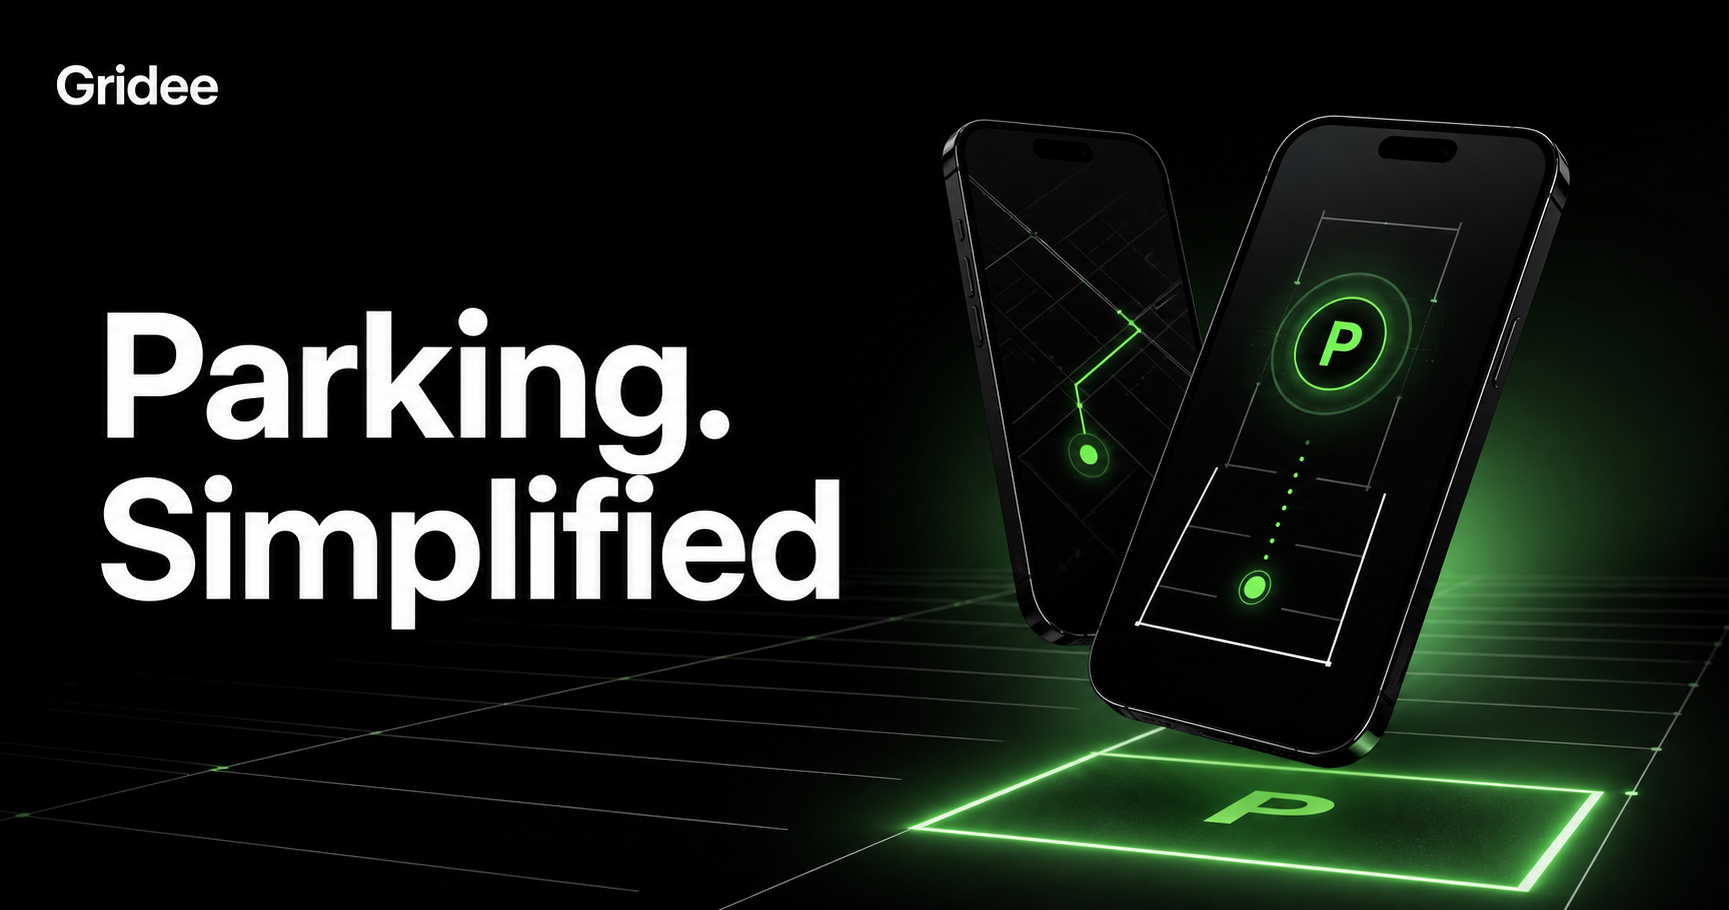
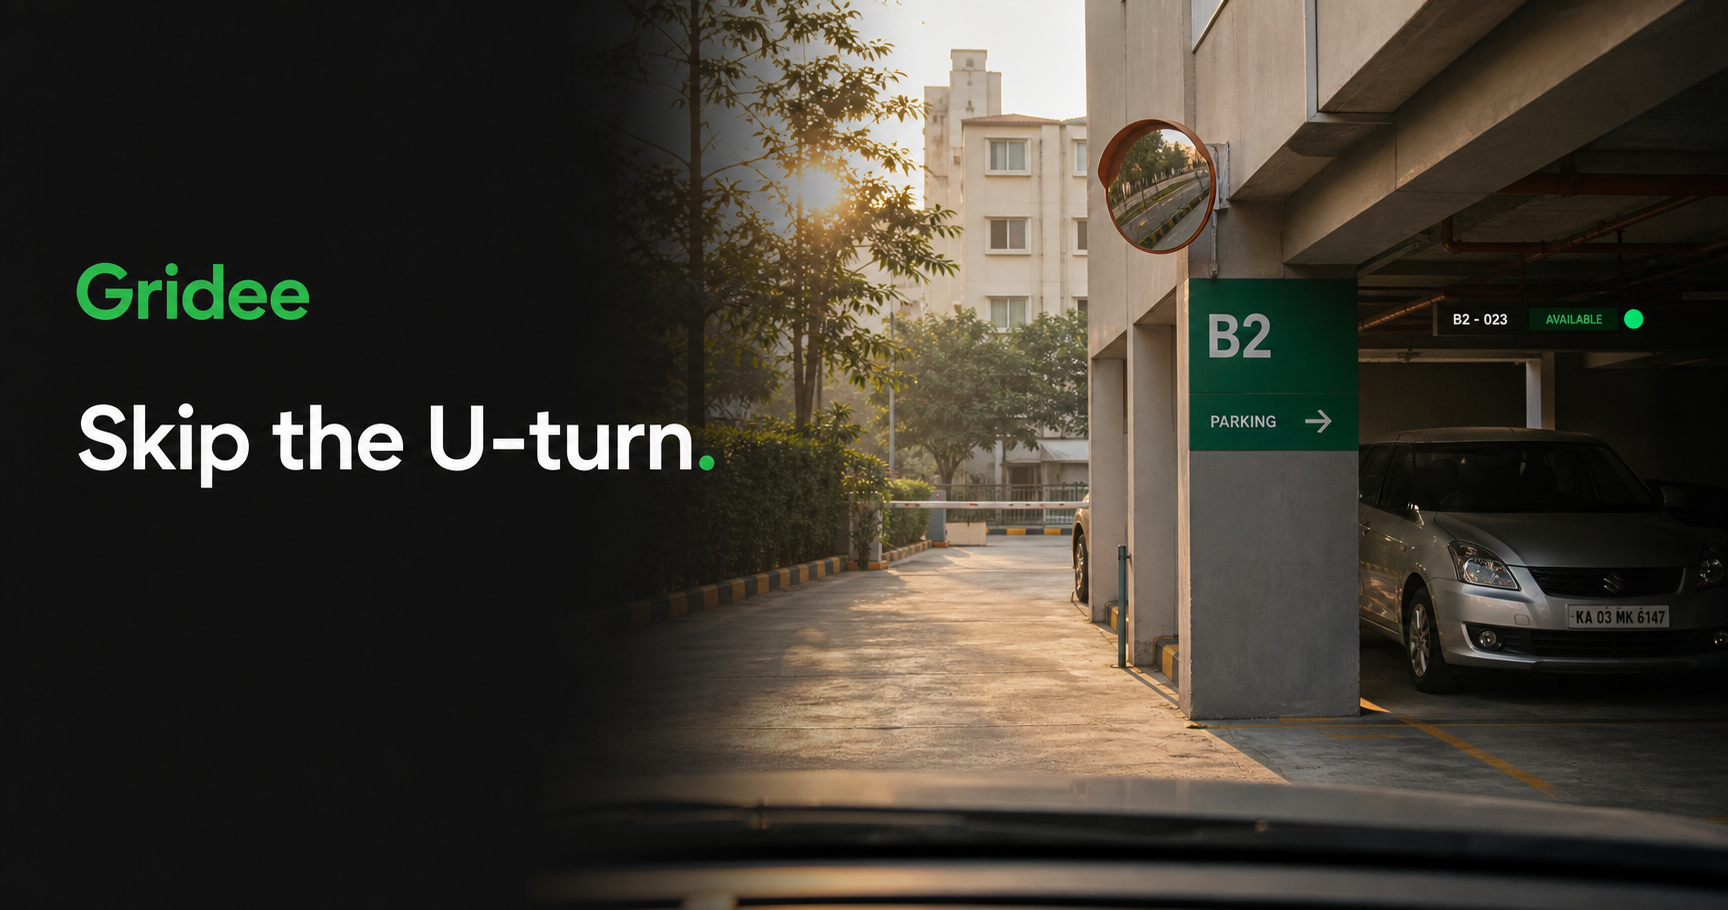
Give Gridee landing page a more human voice

diff --git a/app/globals.css b/app/globals.css
@@ -381,37 +381,12 @@ main {
   z-index: 2;
 }
 
-.announcement {
-  width: max-content;
-  display: flex;
-  align-items: center;
-  gap: 9px;
-  margin-bottom: 30px;
-  padding: 8px 11px;
-  border: 1px solid rgba(255, 255, 255, 0.12);
-  border-radius: 999px;
-  background: rgba(255, 255, 255, 0.035);
-  color: rgba(255, 255, 255, 0.65);
-  font-family: var(--font-geist-mono), monospace;
-  font-size: 9px;
-  letter-spacing: 0.1em;
-  text-transform: uppercase;
-}
-
-.announcement i {
-  width: 6px;
-  height: 6px;
-  border-radius: 50%;
-  background: var(--green);
-  box-shadow: 0 0 12px var(--green);
-}
-
 .hero h1 {
   margin: 0;
-  font-size: clamp(68px, 8.1vw, 128px);
-  font-weight: 650;
-  line-height: 0.82;
-  letter-spacing: -0.085em;
+  font-size: clamp(66px, 7.7vw, 120px);
+  font-weight: 610;
+  line-height: 0.86;
+  letter-spacing: -0.075em;
 }
 
 .hero-line {
@@ -450,6 +425,32 @@ main {
   font-size: clamp(16px, 1.4vw, 20px);
   line-height: 1.65;
   letter-spacing: -0.02em;
+}
+
+.human-note {
+  max-width: 430px;
+  margin-top: 30px;
+  padding: 18px 0 0 22px;
+  border-top: 1px solid rgba(255, 255, 255, 0.16);
+  border-left: 3px solid var(--green);
+  transform: rotate(-0.7deg);
+}
+
+.human-note span {
+  color: var(--green-bright);
+  font-family: var(--font-geist-mono), monospace;
+  font-size: 9px;
+  letter-spacing: 0.12em;
+  text-transform: uppercase;
+}
+
+.human-note p {
+  margin: 8px 0 0;
+  color: rgba(255, 255, 255, 0.72);
+  font-family: Georgia, "Times New Roman", serif;
+  font-size: 16px;
+  font-style: italic;
+  line-height: 1.45;
 }
 
 .hero-buttons {
@@ -898,6 +899,9 @@ main {
   border-right: 1px solid var(--line);
 }
 
+.stat-card:nth-child(2) { transform: translateY(14px); }
+.stat-card:nth-child(4) { transform: translateY(-10px); }
+
 .stat-card:not(:first-child) { padding-left: 28px; }
 .stat-card:last-child { border-right: 0; }
 .stat-card strong { display: block; font-size: clamp(38px, 4.2vw, 66px); font-weight: 520; line-height: 1; letter-spacing: -0.075em; }
@@ -1271,7 +1275,6 @@ footer{position:relative;padding:100px 0 0;border-top:1px solid var(--line);back
   .hero-inner { width: calc(100% - 28px); }
   .navbar { height:56px; padding-left:16px; border-radius:15px; }
   .logo { font-size:18px; }
-  .announcement { margin-bottom:24px; }
   .hero { padding-top:125px; }
   .hero h1 { font-size:17.2vw; line-height:.86; }
   .hero-sub { margin-top:28px; font-size:15px; }

diff --git a/app/page.tsx b/app/page.tsx
@@ -65,10 +65,10 @@ const navItems = [
 ];
 
 const stats = [
-  { value: 3400, suffix: "+", label: "Students" },
-  { value: 10000, suffix: "+", label: "Parking Sessions" },
-  { value: 98, suffix: "%", label: "Successful Experience" },
-  { value: 1000, suffix: "+", label: "Parking Locations" },
+  { value: 3400, suffix: "+", label: "students in early communities" },
+  { value: 10000, suffix: "+", label: "arrivals handled" },
+  { value: 98, suffix: "%", label: "sessions completed smoothly" },
+  { value: 1000, suffix: "+", label: "spaces mapped" },
 ];
 
 const storySteps: { title: string; copy: string; icon: IconType }[] = [
@@ -187,22 +187,22 @@ const ecosystem: { label: string; detail: string; icon: IconType }[] = [
 
 const testimonials = [
   {
-    quote: "I used to circle campus for twenty minutes. With Gridee I know exactly where I’m going before I even leave home.",
-    name: "Aarav Mehta",
-    role: "Student · Bengaluru",
-    initials: "AM",
+    quote: "I used to leave early just to account for parking. Now I check before I leave and head straight to the right gate.",
+    name: "A student rider",
+    role: "Campus pilot · Bengaluru",
+    initials: "SR",
   },
   {
-    quote: "Gridee changed parking from a daily complaint into an invisible operation. Occupancy is clearer and entry is dramatically faster.",
-    name: "Ritika Rao",
-    role: "Campus Operations Lead",
-    initials: "RR",
+    quote: "The best sign is that the security desk gets fewer calls. People know where to go, and we can finally see what is happening.",
+    name: "An operations lead",
+    role: "University parking team",
+    initials: "OL",
   },
   {
-    quote: "The ANPR flow feels like magic. No calls at the gate, no paper logs—just verified vehicles moving through securely.",
-    name: "Karan Shah",
-    role: "Parking Facility Manager",
-    initials: "KS",
+    quote: "The number plate check saves us from maintaining another paper register. That sounds small until you do it every day.",
+    name: "A facility manager",
+    role: "Residential community",
+    initials: "FM",
   },
 ];
 
@@ -503,14 +503,13 @@ export default function Home() {
         <div className="hero-glow" aria-hidden="true" />
         <div className="hero-inner">
           <div className="hero-copy">
-            <motion.div className="announcement" initial={{ opacity: 0, y: 12 }} animate={{ opacity: 1, y: 0 }} transition={{ delay: 1.4 }}><i /> Building India&apos;s parking OS <ArrowRight size={14} /></motion.div>
-            <h1 aria-label="Parking. Simplified">
-              <span className="hero-line"><motion.span initial={{ y: "105%" }} animate={{ y: 0 }} transition={{ duration: 1, delay: 1.2, ease: [0.16, 1, 0.3, 1] }}>Parking.</motion.span></span>
-              <span className="hero-line green"><motion.span initial={{ y: "105%" }} animate={{ y: 0 }} transition={{ duration: 1, delay: 1.32, ease: [0.16, 1, 0.3, 1] }}>Simplified</motion.span><motion.i initial={{ scaleX: 0 }} animate={{ scaleX: 1 }} transition={{ delay: 2, duration: 0.8 }} /></span>
+            <h1 aria-label="Parking shouldn't start with a U-turn">
+              <span className="hero-line"><motion.span initial={{ y: "105%" }} animate={{ y: 0 }} transition={{ duration: 1, delay: 1.2, ease: [0.16, 1, 0.3, 1] }}>Skip the</motion.span></span>
+              <span className="hero-line green"><motion.span initial={{ y: "105%" }} animate={{ y: 0 }} transition={{ duration: 1, delay: 1.32, ease: [0.16, 1, 0.3, 1] }}>U-turn.</motion.span><motion.i initial={{ scaleX: 0 }} animate={{ scaleX: 1 }} transition={{ delay: 2, duration: 0.8 }} /></span>
             </h1>
-            <motion.p className="hero-sub" initial={{ opacity: 0, y: 20 }} animate={{ opacity: 1, y: 0 }} transition={{ delay: 1.65, duration: 0.8 }}>Gridee is building the future of smart parking for universities, apartments, businesses and cities.</motion.p>
+            <motion.p className="hero-sub" initial={{ opacity: 0, y: 20 }} animate={{ opacity: 1, y: 0 }} transition={{ delay: 1.65, duration: 0.8 }}>See a free space before you arrive. Reserve it, enter without the paper-ticket shuffle, and get on with your day.</motion.p>
             <motion.div className="hero-buttons" initial={{ opacity: 0, y: 16 }} animate={{ opacity: 1, y: 0 }} transition={{ delay: 1.8 }}><AppBadge store="apple" /><AppBadge store="google" /></motion.div>
-            <motion.div className="hero-note" initial={{ opacity: 0 }} animate={{ opacity: 1 }} transition={{ delay: 2 }}><span className="avatar-stack"><i>R</i><i>A</i><i>K</i></span><span><b>4.9</b> loved by early riders</span></motion.div>
+            <motion.div className="human-note" initial={{ opacity: 0 }} animate={{ opacity: 1 }} transition={{ delay: 2 }}><span>Field note · 8:42 AM</span><p>Made for the five minutes before class, a meeting, or visiting hours.</p></motion.div>
           </div>
           <motion.div className="hero-devices" initial={{ opacity: 0, scale: 0.88, y: 30 }} animate={{ opacity: 1, scale: 1, y: 0 }} transition={{ delay: 1.4, duration: 1.15, ease: [0.16, 1, 0.3, 1] }}>
             <div className="phone-orbit orbit-one" /><div className="phone-orbit orbit-two" />
@@ -524,7 +523,7 @@ export default function Home() {
       </section>
 
       <section className="trusted section-shell" id="trusted">
-        <Reveal className="trusted-heading"><SectionEyebrow>Moving with Gridee</SectionEyebrow><p>Built around real people.<br />Proven in the real world.</p></Reveal>
+        <Reveal className="trusted-heading"><SectionEyebrow>What we have learned so far</SectionEyebrow><p>Parking is rarely the destination.<br />It should not take over the journey.</p></Reveal>
         <div className="stats-grid">
           {stats.map((stat, i) => <Reveal className="stat-card" key={stat.label} delay={i * 0.08}><Counter value={stat.value} suffix={stat.suffix} /><span>{stat.label}</span><i /></Reveal>)}
         </div>
@@ -532,7 +531,7 @@ export default function Home() {
 
       <section className="story section-shell" ref={storyRef}>
         <div className="story-intro">
-          <Reveal><SectionEyebrow>The everyday, reimagined</SectionEyebrow><h2>From searching<br />to parked—<em>one flow.</em></h2><p>What used to feel fragmented now feels invisible. Gridee coordinates every moment from intent to arrival.</p></Reveal>
+          <Reveal><SectionEyebrow>One less daily headache</SectionEyebrow><h2>From “where do I park?”<br />to <em>right this way.</em></h2><p>Gridee connects availability, entry and payment so drivers do less guessing—and gate teams answer fewer calls.</p></Reveal>
           <div className="journey-visual" aria-hidden="true">
             <div className="journey-lane"><i /><i /><i /><i /><i /><i /></div>
             <motion.div className="journey-car" style={{ y: carY }}><Car size={18} /></motion.div>
@@ -558,7 +557,7 @@ export default function Home() {
       </section>
 
       <section className="features section-shell" id="features">
-        <Reveal className="section-heading-row"><div><SectionEyebrow>What we build</SectionEyebrow><h2>The intelligence<br />behind every space.</h2></div><p>Purpose-built infrastructure for the full parking journey—simple for drivers, powerful for operators.</p></Reveal>
+        <Reveal className="section-heading-row"><div><SectionEyebrow>Under the bonnet</SectionEyebrow><h2>The practical bits<br />that make it work.</h2></div><p>Live availability for drivers. Clear controls for operators. No jargon required at the gate.</p></Reveal>
         <div className="feature-grid">
           {features.map((feature, i) => { const Icon = feature.icon; return <Reveal key={feature.title} delay={(i % 4) * 0.05}><article className={`feature-card ${i === 0 || i === 3 ? "feature-wide" : ""}`}><div className="feature-top"><span className="feature-icon"><Icon size={22} /></span><span className="feature-tag"><i /> {feature.tag}</span></div><h3>{feature.title}</h3><p>{feature.copy}</p><div className="feature-arrow"><ArrowUpRight size={18} /></div>{i === 0 && <div className="feature-mini-map"><i /><i /><i /><i /></div>}{i === 3 && <div className="feature-scan"><span>KA 01 MH 2048</span><i /></div>}</article></Reveal>; })}
         </div>
@@ -603,7 +602,7 @@ export default function Home() {
 
       <section className="testimonials">
         <div className="section-shell">
-          <Reveal className="testimonials-head"><SectionEyebrow>People in motion</SectionEyebrow><h2>Parking made better,<br />one arrival at a time.</h2></Reveal>
+          <Reveal className="testimonials-head"><SectionEyebrow>Things we hear at the gate</SectionEyebrow><h2>Small changes.<br />Better mornings.</h2></Reveal>
           <div className="testimonial-grid">{testimonials.map((item, i) => <Reveal key={item.name} delay={i * 0.08}><article className="testimonial-card"><div className="quote-mark">“</div><blockquote>{item.quote}</blockquote><div className="person"><span>{item.initials}</span><div><strong>{item.name}</strong><small>{item.role}</small></div><i><Check size={11} /></i></div></article></Reveal>)}</div>
         </div>
       </section>

diff --git a/app/layout.tsx b/app/layout.tsx
@@ -29,7 +29,7 @@ export async function generateMetadata(): Promise<Metadata> {
   return {
     metadataBase: new URL(origin),
     title: "Gridee — Parking. Simplified",
-    description: "Gridee is building the operating system for smart parking across universities, apartments, businesses and cities.",
+    description: "See a free space before you arrive, reserve it, and enter without the paper-ticket shuffle.",
     keywords: ["smart parking", "parking app", "ANPR parking", "QR parking", "parking management software", "Gridee"],
     authors: [{ name: "Gridee" }],
     creator: "Gridee",
@@ -40,13 +40,13 @@ export async function generateMetadata(): Promise<Metadata> {
       url: origin,
       siteName: "Gridee",
       title: "Gridee — Parking. Simplified",
-      description: "The operating system for smart parking. Just arrive. Park. Go.",
-      images: [{ url: `${origin}/og.png`, width: 1729, height: 910, alt: "Gridee — Parking. Simplified" }],
+      description: "Parking should not start with a U-turn. Find a space, reserve it and get on with your day.",
+      images: [{ url: `${origin}/og.png`, width: 1728, height: 910, alt: "Gridee — Skip the U-turn" }],
     },
     twitter: {
       card: "summary_large_image",
       title: "Gridee — Parking. Simplified",
-      description: "The operating system for smart parking. Just arrive. Park. Go.",
+      description: "Parking should not start with a U-turn. Find a space, reserve it and get on with your day.",
       images: [`${origin}/og.png`],
     },
     robots: { index: true, follow: true },